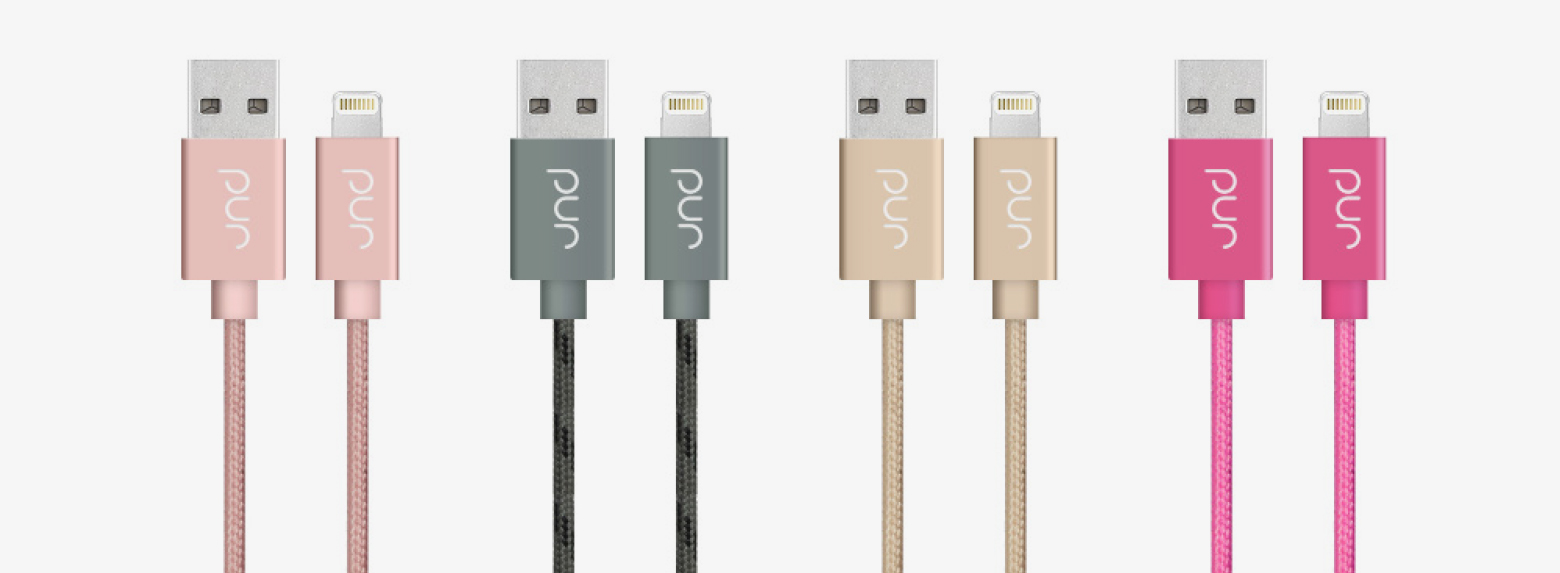
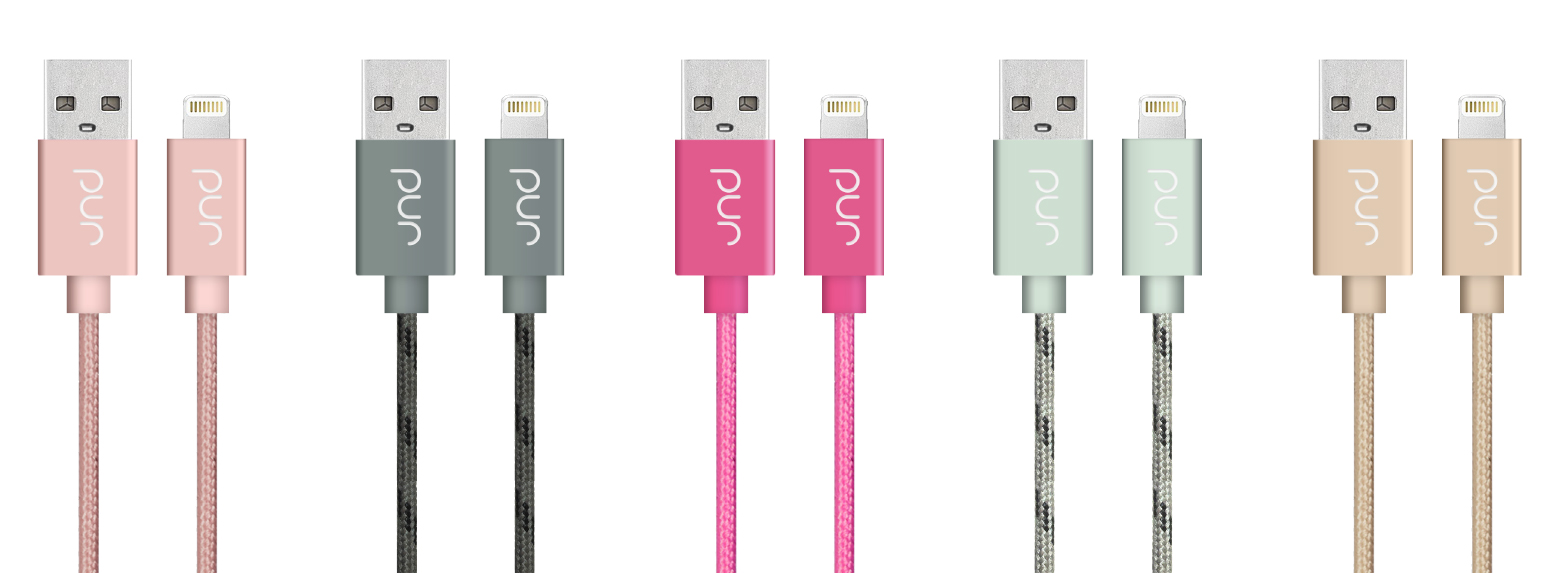
add package

diff --git a/index.html b/index.html
@@ -90,7 +90,6 @@
 				<div class="row">
 					<div class="col-md-8">
 						<a class="btn btn--highlight" style="margin-top:60px;" href="http://www.amazon.com/Certified-Braided-Tangle-Free-Lightning-Charging/dp/B017VPDGPM/ref=sr_1_2?ie=UTF8&qid=1449554559&sr=8-2&keywords=pur+lightning+cable" onClick="ga('send', 'event', 'buy', 'click', 'gotoamazon');"><p class=" ">Buy Now</p></a>
-						<p>
 					</div>
 				</div>
 			</div>
@@ -161,19 +160,38 @@
 		</div>
 	</div>
 
-	<div id="battery" class="background--differentiator padding--element_top_lg">
+	<div class="background--differentiator padding--element_top_lg">
 		<div id="display" class="container">
 			<div class="row">
 				<div class="col-md-12">
 					<h1 class="text-center txt--primary_on_light txt--title">Find a Color to Match Your Device</h1>
 					<p class="text-center">PUR comes in different colors to match your rose gold, gold silver or space gray iPhone.</p>
-					<img src="img/lightningCable/color.jpg" class="img-responsive center-block margin--element_top" alt="PUR lightning cables in different colors.">
+					<img src="img/lightningCable/color.png" class="img-responsive center-block margin--element_top" alt="PUR lightning cables in different colors.">
 				</div>
 			</div>
 		</div>
 	</div>
 
+	<div class="container margin--section_top margin--section_bottom">
+		<div class="row">
+			<div class="col-md-12">
+				<h1 class="text-center txt--primary_on_light txt--title">Now Available on Amazon.</h1>
+				<div class="row">
+					<div class="col-md-2 col-md-offset-5">
+						<a class="btn btn--highlight" style="margin-top:60px;" href="http://www.amazon.com/Certified-Braided-Tangle-Free-Lightning-Charging/dp/B017VPDGPM/ref=sr_1_2?ie=UTF8&qid=1449554559&sr=8-2&keywords=pur+lightning+cable" onClick="ga('send', 'event', 'buy', 'click', 'gotoamazon');"><p class=" ">Buy Now</p></a>
+					</div>
+				</div>
 
+				<div class="row">
+					<div class="col-md-6 col-md-offset-3">
+						<img src="img/lightningCable/package.jpg" class="img-responsive center-block margin--element_top" alt="Lightning cable's dimension.">
+					</div>
+				</div>
+
+
+			</div>
+		</div>
+	</div>
 
 <!-- 		<div class="container padding--element_lg">
 			<div class="row">
